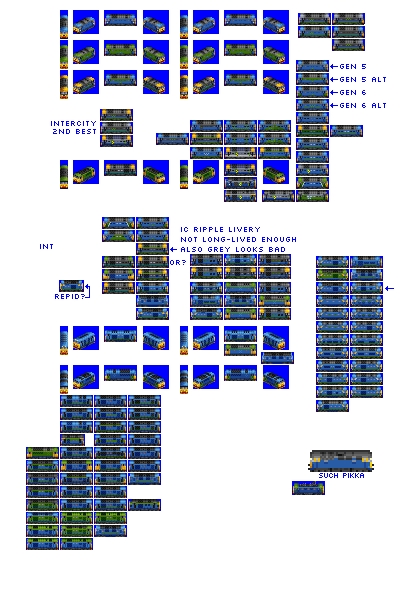
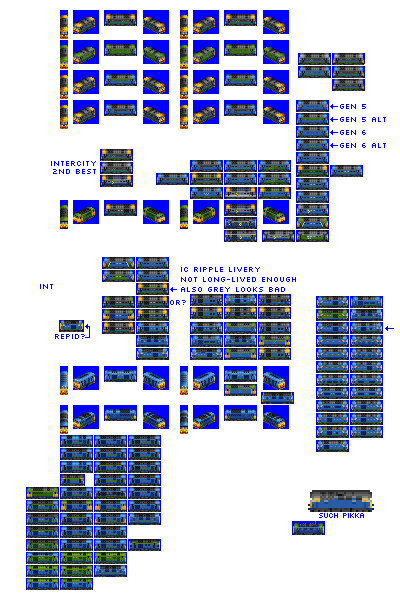
Change: extended liveries for Resilient as buyable variants, rather than separate consists

diff --git a/src/rosters/pony.py b/src/rosters/pony.py
@@ -109,9 +109,6 @@ from vehicles import quietus
 from vehicles import relentless
 from vehicles import reliance
 from vehicles import resilient
-from vehicles import resilient_2
-from vehicles import resilient_3
-from vehicles import resilient_4
 from vehicles import revolution
 from vehicles import roarer
 from vehicles import saxon
@@ -302,6 +299,19 @@ def main():
                     ("COLOUR_ORANGE", "COLOUR_WHITE"),
                 ],
             },
+            "CABBAGE_1": {
+                "remap_to_cc": None,
+                "docs_image_input_cc": [
+                    ("COLOUR_RED", "COLOUR_WHITE"),
+                    ("COLOUR_GREY", "COLOUR_YELLOW"),
+                ],
+            },
+            "CABBAGE_2": {
+                "remap_to_cc": None,
+                "docs_image_input_cc": [
+                    ("COLOUR_RED", "COLOUR_LIGHT_BLUE"),
+                ],
+            },
         },
         # this list is manually maintained deliberately, even though it could be mostly automated using tech tree
         engines=[
@@ -340,9 +350,6 @@ def main():
             intrepid,
             vanguard,
             resilient,
-            resilient_2,
-            resilient_3,
-            resilient_4,
             evolution,  # out of normal order so that the names read 'Evolution', 'Revolution' (usually jokers come after the tech tree version not before)
             revolution,
             pegasus,

diff --git a/src/vehicles/resilient.py b/src/vehicles/resilient.py
@@ -16,7 +16,7 @@ def main(roster_id):
         gen=5,
         intro_year_offset=-4,  # let's not have everything turn up in 1990
         fixed_run_cost_points=65,  # give a bonus so this can be a genuine mixed-traffic engine
-        alternative_liveries=["FREIGHTLINER_GBRF", "RAILFREIGHT_TRIPLE_GREY"],  # tried liveries for RES, etc, not convinced
+        alternative_liveries=["FREIGHTLINER_GBRF", "CABBAGE_1", "CABBAGE_2"],
         default_livery_extra_docs_examples=[
             ("COLOUR_BLUE", "COLOUR_WHITE"),
             ("COLOUR_GREY", "COLOUR_GREY"),
